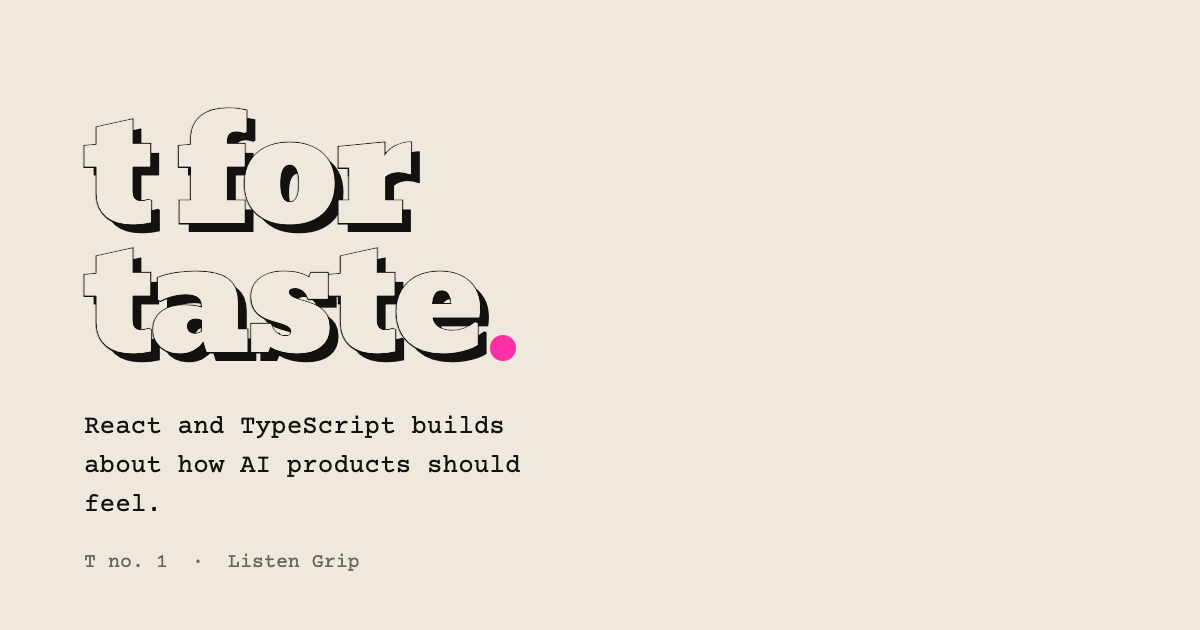
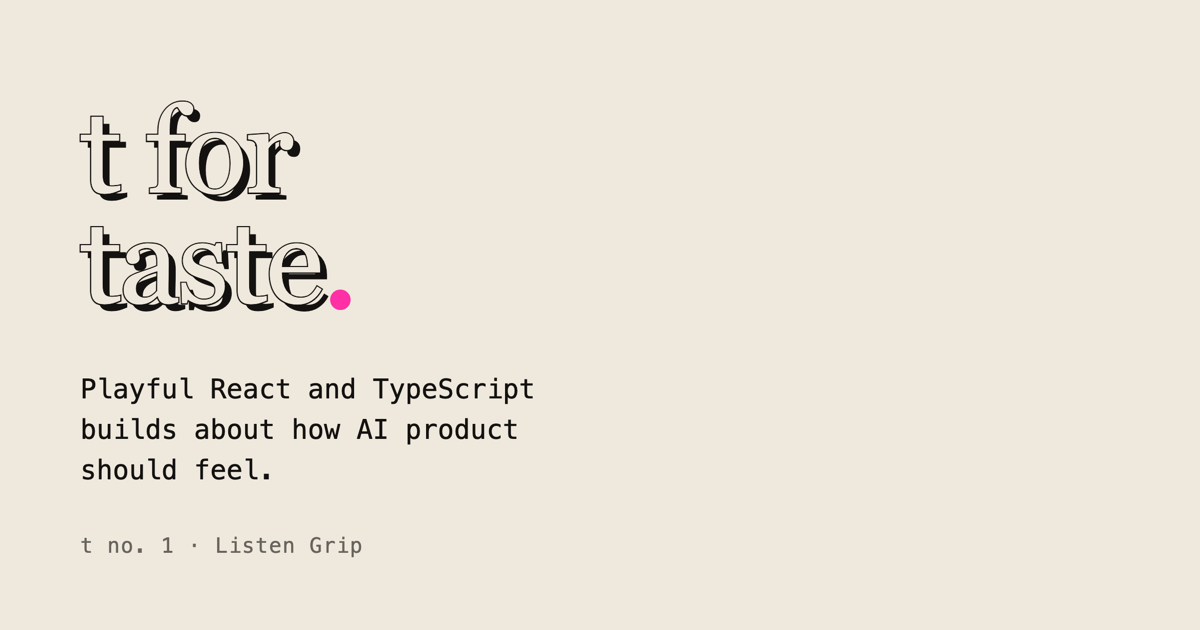
New lede, lowercase episode mark, and a generator for the social card
The lede is hers: playful, and no 'one call at a time'. It changes in three
places that have to agree — the landing page, the meta description, and the
social card — which is why the card now has a generator beside the poster's
instead of being a one-off image. Same recipe: the real faces and tokens,
borrowed from the app, and the episode line read from the manifest.

The episode mark goes lowercase too, so the series letter reads the same
everywhere. It was already Courier Prime; only the case moves.

T/01's first caption line gains the smile: it is what the grip actually does.

diff --git a/scripts/og.html b/scripts/og.html
@@ -1,0 +1,44 @@
+<!doctype html><html><head><meta charset="utf-8">
+<!-- The social card, built from the site's own faces and tokens so it cannot drift from the site.
+     Same recipe as scripts/poster.html:
+       npm run build, serve dist with this file copied in, then
+       chrome --headless=new --window-size=1200,630 --force-device-scale-factor=2 --hide-scrollbars \
+         --screenshot=og.png --virtual-time-budget=9000 'http://localhost:5243/scripts/og.html?lede=...'
+       sips -Z 1200 og.png --out public/og.png                                                     -->
+<style>
+  html,body{margin:0;background:#efe9dd}
+  .og{width:1200px;height:630px;box-sizing:border-box;padding:96px 80px 72px;background:#efe9dd;
+    display:flex;flex-direction:column;position:relative;overflow:hidden}
+  .mark{font-family:"Bevan",Georgia,serif;font-weight:400;font-size:120px;line-height:.92;
+    text-transform:lowercase;letter-spacing:-.02em;margin:0;
+    color:#efe9dd;-webkit-text-stroke:3px #141210;paint-order:stroke fill;
+    text-shadow:7px 7px 0 #141210}
+  .mark i{display:inline-block;width:.17em;height:.17em;margin-left:.075em;border-radius:50%;
+    background:#ff2fa6;transform:translateY(7px)}
+  .lede{font-family:"Courier Prime",monospace;font-size:27px;line-height:1.5;color:#141210;
+    margin:52px 0 0;max-width:520px}
+  .foot{font-family:"Courier Prime",monospace;font-size:21px;color:#67645e;margin:auto 0 0;letter-spacing:.04em}
+</style></head><body>
+<div class="og">
+  <p class="mark">t for<br>taste<i></i></p>
+  <p class="lede" id="lede"></p>
+  <p class="foot" id="foot"></p>
+</div>
+<script>
+  const q = new URLSearchParams(location.search)
+  document.getElementById('lede').textContent =
+    q.get('lede') || 'Playful React and TypeScript builds about how AI product should feel.'
+  const f = document.createElement('iframe')
+  f.src = '/index.html#/'; f.style.cssText = 'position:fixed;left:-4000px;width:1000px;height:700px'
+  f.onload = () => {
+    // Borrow the app's stylesheets so the card is set in the real faces, and read the newest live
+    // episode from the same manifest the portfolio card uses.
+    f.contentDocument.head.querySelectorAll('link[rel=stylesheet],style')
+      .forEach(n => document.head.appendChild(n.cloneNode(true)))
+  }
+  document.body.appendChild(f)
+  fetch('/episodes.json').then(r => r.json()).then(d => {
+    const [top] = [...(d.episodes ?? [])].sort((a, b) => b.number - a.number)
+    document.getElementById('foot').textContent = top ? `t no. ${top.number}  ·  ${top.title}` : ''
+  }).catch(() => {})
+</script></body></html>

diff --git a/index.html b/index.html
@@ -3,7 +3,7 @@
   <head>
     <meta charset="UTF-8" />
     <meta name="viewport" content="width=device-width, initial-scale=1.0" />
-    <meta name="description" content="React and TypeScript builds about how AI products should feel. One interaction per episode, with the decision behind it." />
+    <meta name="description" content="Playful React and TypeScript builds about how AI product should feel. One interaction per episode, with the decision behind it." />
     <title>t for taste</title>
     <link rel="icon" href="/favicon.svg" type="image/svg+xml" />
 
@@ -12,7 +12,7 @@
     <meta property="og:type" content="website" />
     <meta property="og:site_name" content="t for taste" />
     <meta property="og:title" content="t for taste" />
-    <meta property="og:description" content="React and TypeScript builds about how AI products should feel. One interaction per episode, with the decision behind it." />
+    <meta property="og:description" content="Playful React and TypeScript builds about how AI product should feel. One interaction per episode, with the decision behind it." />
     <meta property="og:url" content="https://t-for-taste.netlify.app/" />
     <meta property="og:image" content="https://t-for-taste.netlify.app/og.png" />
     <meta property="og:image:width" content="1200" />
@@ -20,7 +20,7 @@
     <meta property="og:image:alt" content="t for taste, set in wood type with a hard drop shadow and a pink period." />
     <meta name="twitter:card" content="summary_large_image" />
     <meta name="twitter:title" content="t for taste" />
-    <meta name="twitter:description" content="React and TypeScript builds about how AI products should feel. One interaction per episode, with the decision behind it." />
+    <meta name="twitter:description" content="Playful React and TypeScript builds about how AI product should feel. One interaction per episode, with the decision behind it." />
     <meta name="twitter:image" content="https://t-for-taste.netlify.app/og.png" />
   </head>
   <body>

diff --git a/src/Index.tsx b/src/Index.tsx
@@ -82,13 +82,13 @@ export function Index() {
           <h1 className="tlay tlay--face">T for<br /><RollingDot /></h1>
         </div>
       </div>
-      <p className="lede">React and TypeScript builds about how AI products should feel.</p>
+      <p className="lede">Playful React and TypeScript builds about how AI product should feel.</p>
       <ol className="episode-list">
         {rows.map(({ meta }) => (
           <li key={meta.slug} data-status={meta.status}>
             {/* her row (Figma 239:338): the name, and one line on what it explores. Mono, ruled, nothing else. */}
             <Link to={`/${pad(meta.number)}`}>
-              <span className="label">T no. {meta.number}</span>
+              <span className="label">t no. {meta.number}</span>
               <span className="name">{meta.title}</span>
               <span className="blurb">{meta.blurb ?? meta.material}</span>
             </Link>

diff --git a/src/episodes/01-live-session/meta.ts b/src/episodes/01-live-session/meta.ts
@@ -11,7 +11,7 @@ export const meta: EpisodeMeta = {
   // Lindsay's edit, 2026-09-09. Four fixes: the answers named as they appear on screen, "I" → "It"
   // (the tool never speaks in the first person), and the last line made grammatical.
   caption: {
-    default: 'A voice button that dances when you talk.',
+    default: 'A voice button that smiles and dances when you talk.',
     change: 'Press the grip and it listens through your mic, nothing else. The dots unroll into a sound meter, and only your voice moves it. Press again and it asks: go on, keep it, or close.',
     reason: 'A thing you press, that answers only you when you need it. It can be put away and brought back.',
     not: "It doesn't write down what you say. That's a different build. This one is the press, and the listening. Next is how what you say becomes a command, and where it gets saved.",

diff --git a/src/chassis/Mark.tsx b/src/chassis/Mark.tsx
@@ -1,6 +1,6 @@
 // The corner mark. Same place, same size, every episode, so a feed recognises it before reading.
-// "T no. 1", never "T/01": zero-padding is a sort key, and the period and the space are the
+// "t no. 1", never "T/01": zero-padding is a sort key, and the period and the space are the
 // typographic tradition (Penguin spines, record sleeves) that makes it read as set by a person.
 export function Mark({ number }: { number: number }) {
-  return <div className="mark" aria-label={`t for taste, episode ${number}`}>T no. {number}</div>
+  return <div className="mark" aria-label={`t for taste, episode ${number}`}>t no. {number}</div>
 }

diff --git a/scripts/poster.html b/scripts/poster.html
@@ -39,7 +39,7 @@
 <script>
   const q = new URLSearchParams(location.search)
   const ep = q.get('ep') || '01'
-  document.getElementById('no').textContent = 'T no. ' + (q.get('no') || String(Number(ep)))
+  document.getElementById('no').textContent = 't no. ' + (q.get('no') || String(Number(ep)))
   document.getElementById('title').textContent = q.get('title') || ''
   document.getElementById('say').textContent = q.get('say') || ''
   document.getElementById('blurb').textContent = q.get('blurb') || ''

diff --git a/src/episodes/types.ts b/src/episodes/types.ts
@@ -4,7 +4,7 @@
 export type MotionLibrary = 'motion' | 'gsap'
 
 export interface EpisodeMeta {
-  /** Episode number, shown as "T no. 1" and used unpadded. Assigned when it publishes, never reserved. */
+  /** Episode number, shown as "t no. 1" and used unpadded. Assigned when it publishes, never reserved. */
   number: number
   /** URL slug, matches the folder name minus the number prefix */
   slug: string
